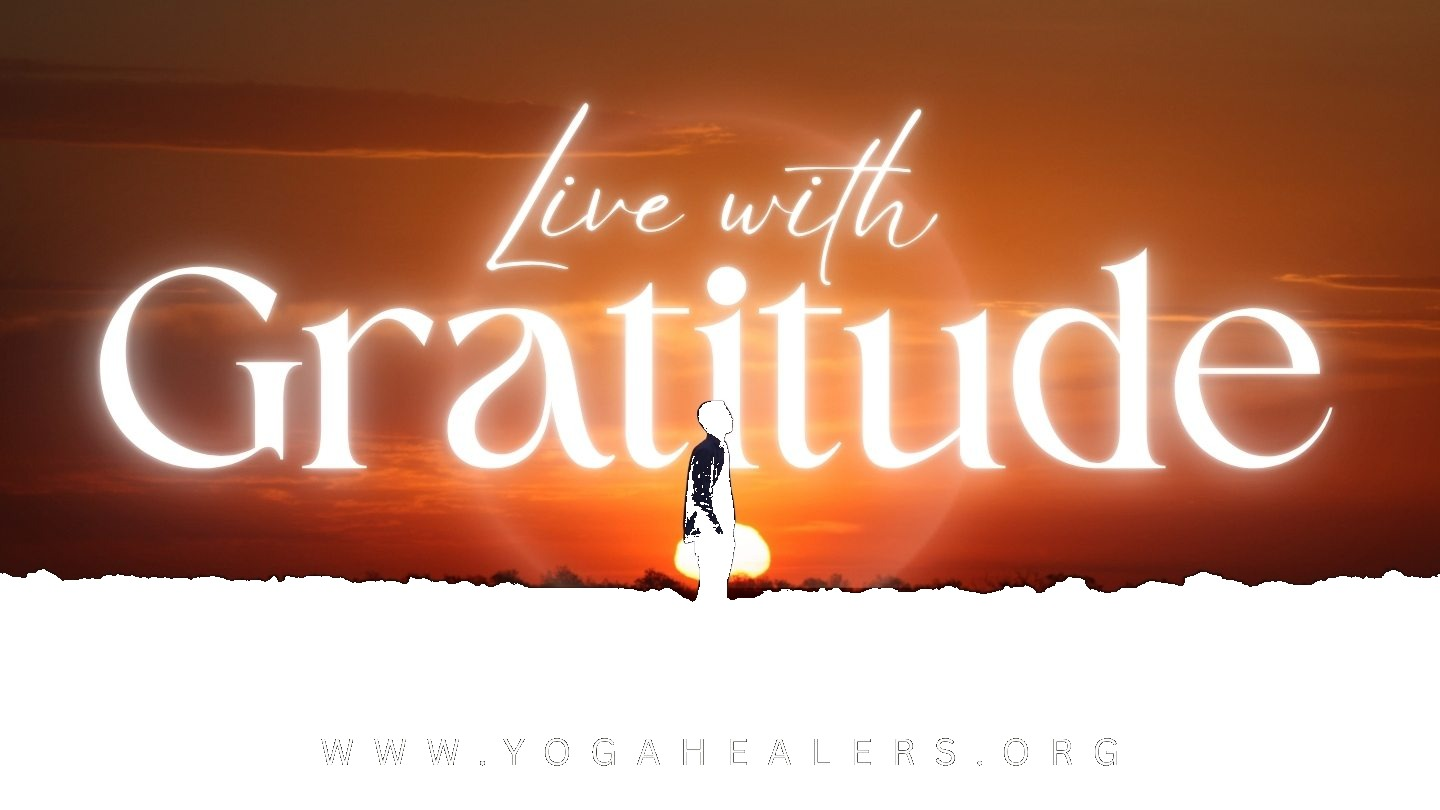
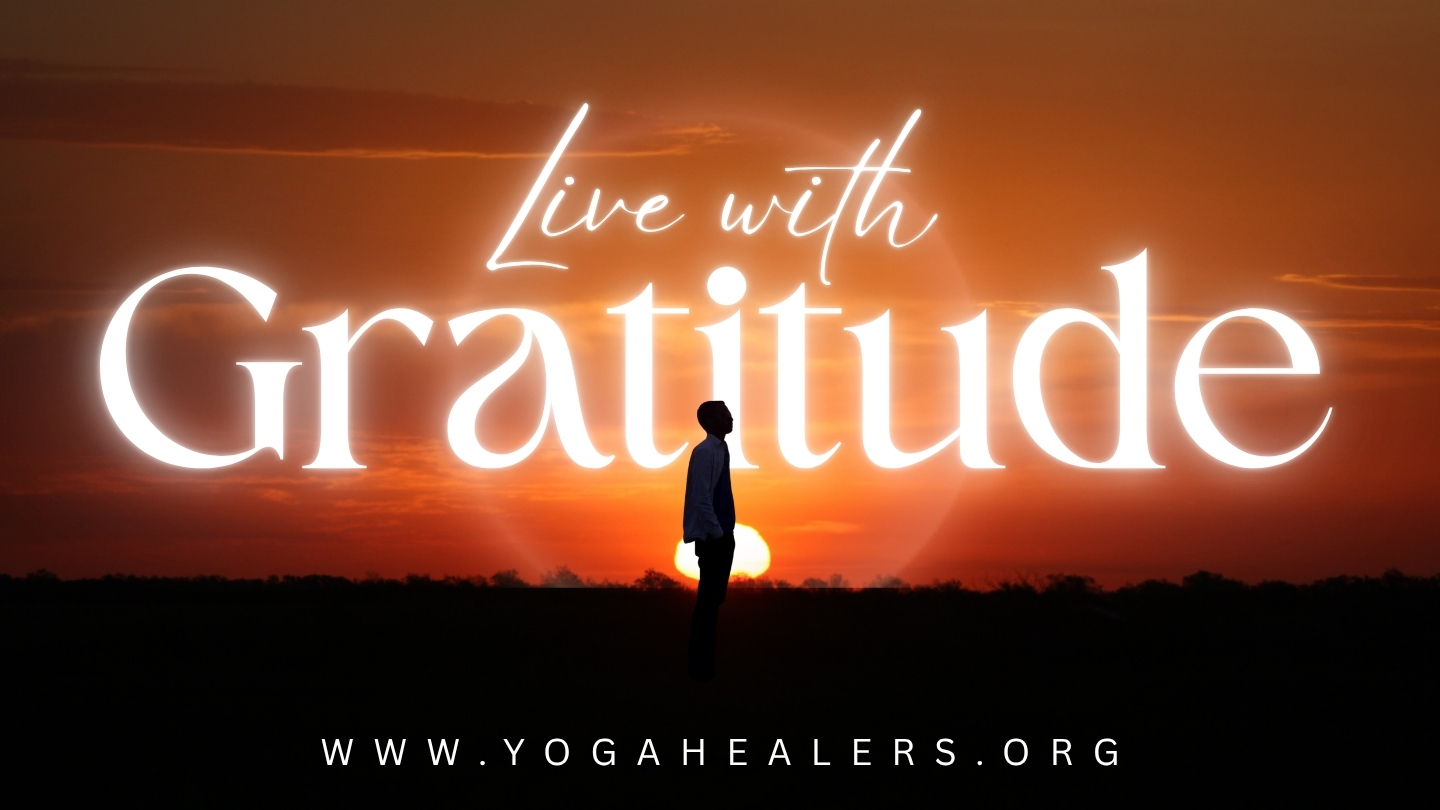
image chnage

Changed region(s): [[0.0, 0.4938, 1.0, 1.0]]

diff --git a/frontend/src/pages/ContactPage/ContactPage.js b/frontend/src/pages/ContactPage/ContactPage.js
@@ -1,7 +1,7 @@
 import React, { useState, useEffect } from 'react';
 import { useApp } from '../../hooks/useApp';
 import contactUsImg from '../../assets/contact_us/contactUs.jpg';
-import contactUs2Img from '../../assets/contact_us/contactus2.jpg';
+import contactUs2Img from '../../assets/contact_us/contactus2.png';
 import MediaLogos from '../../components/MediaLogos/MediaLogos';
 import './ContactPage.css';
 
@@ -220,9 +220,9 @@ export default function ContactPage() {
 
             <div className="contact-hero-image-wrapper">
               <div className="contact-hero-image-frame">
-                <img 
-                  src={contactUsImg} 
-                  alt="Live with Gratitude - Yoga Healers" 
+                <img
+                  src={contactUsImg}
+                  alt="Live with Gratitude - Yoga Healers"
                   className="contact-banner-img"
                   loading="eager"
                   decoding="async"
